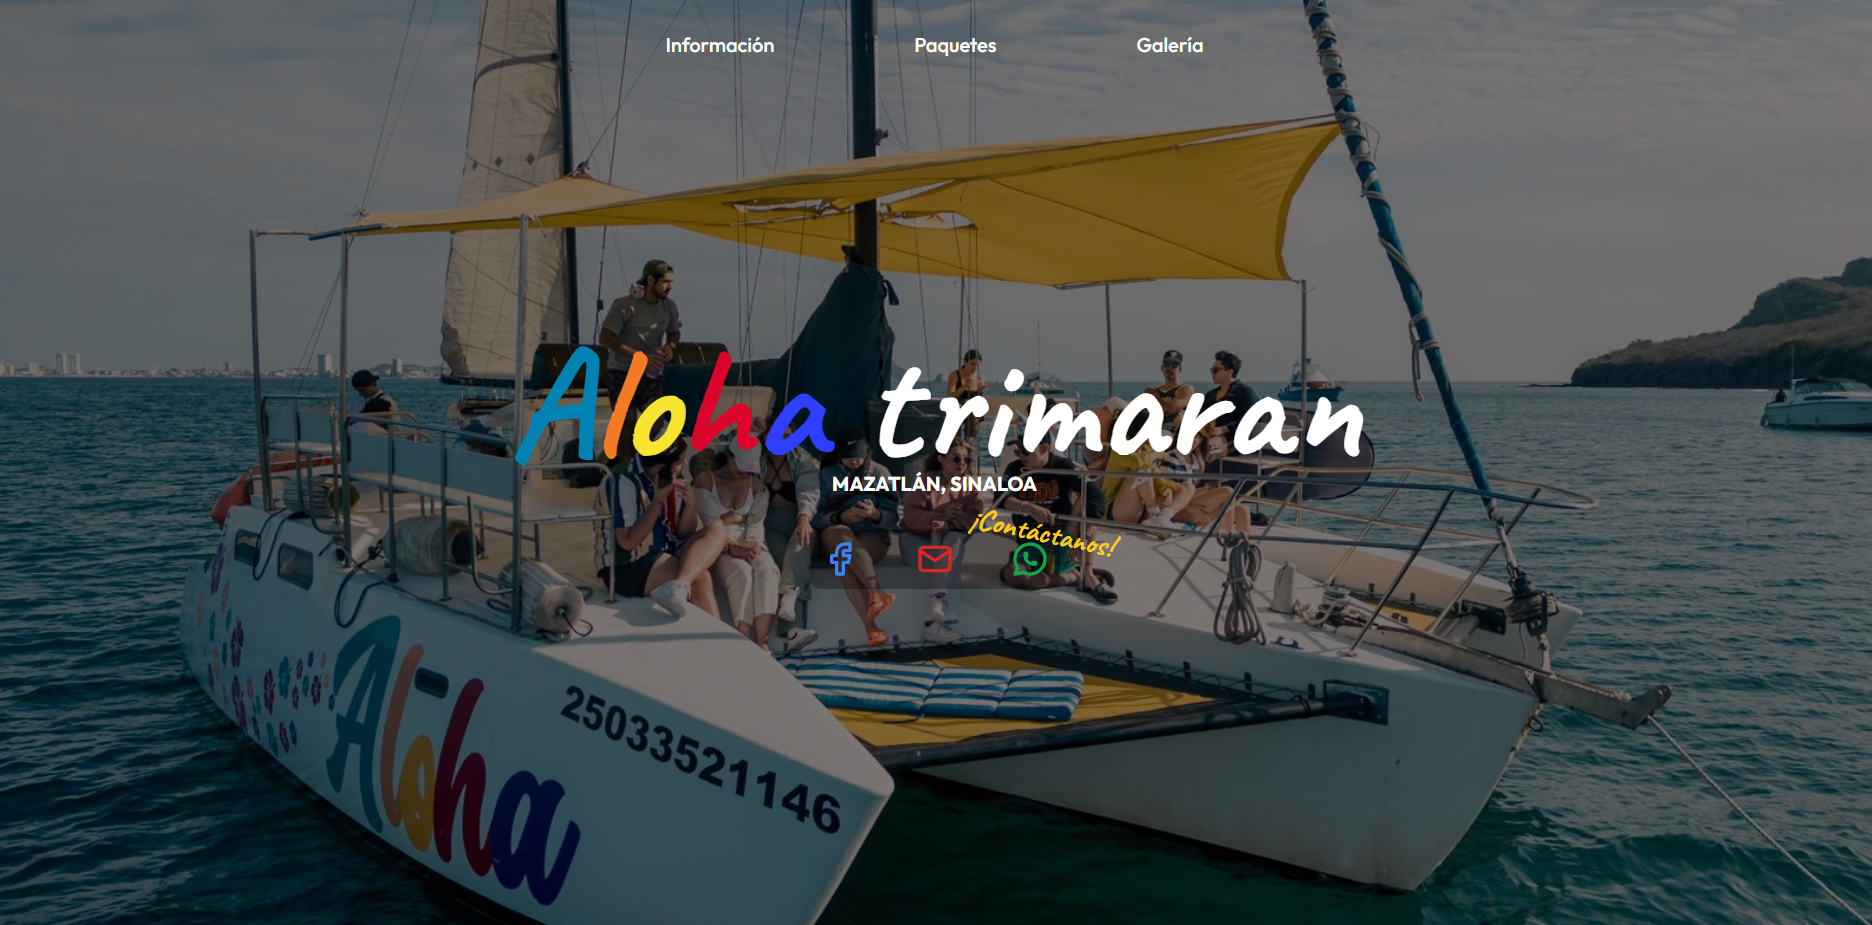
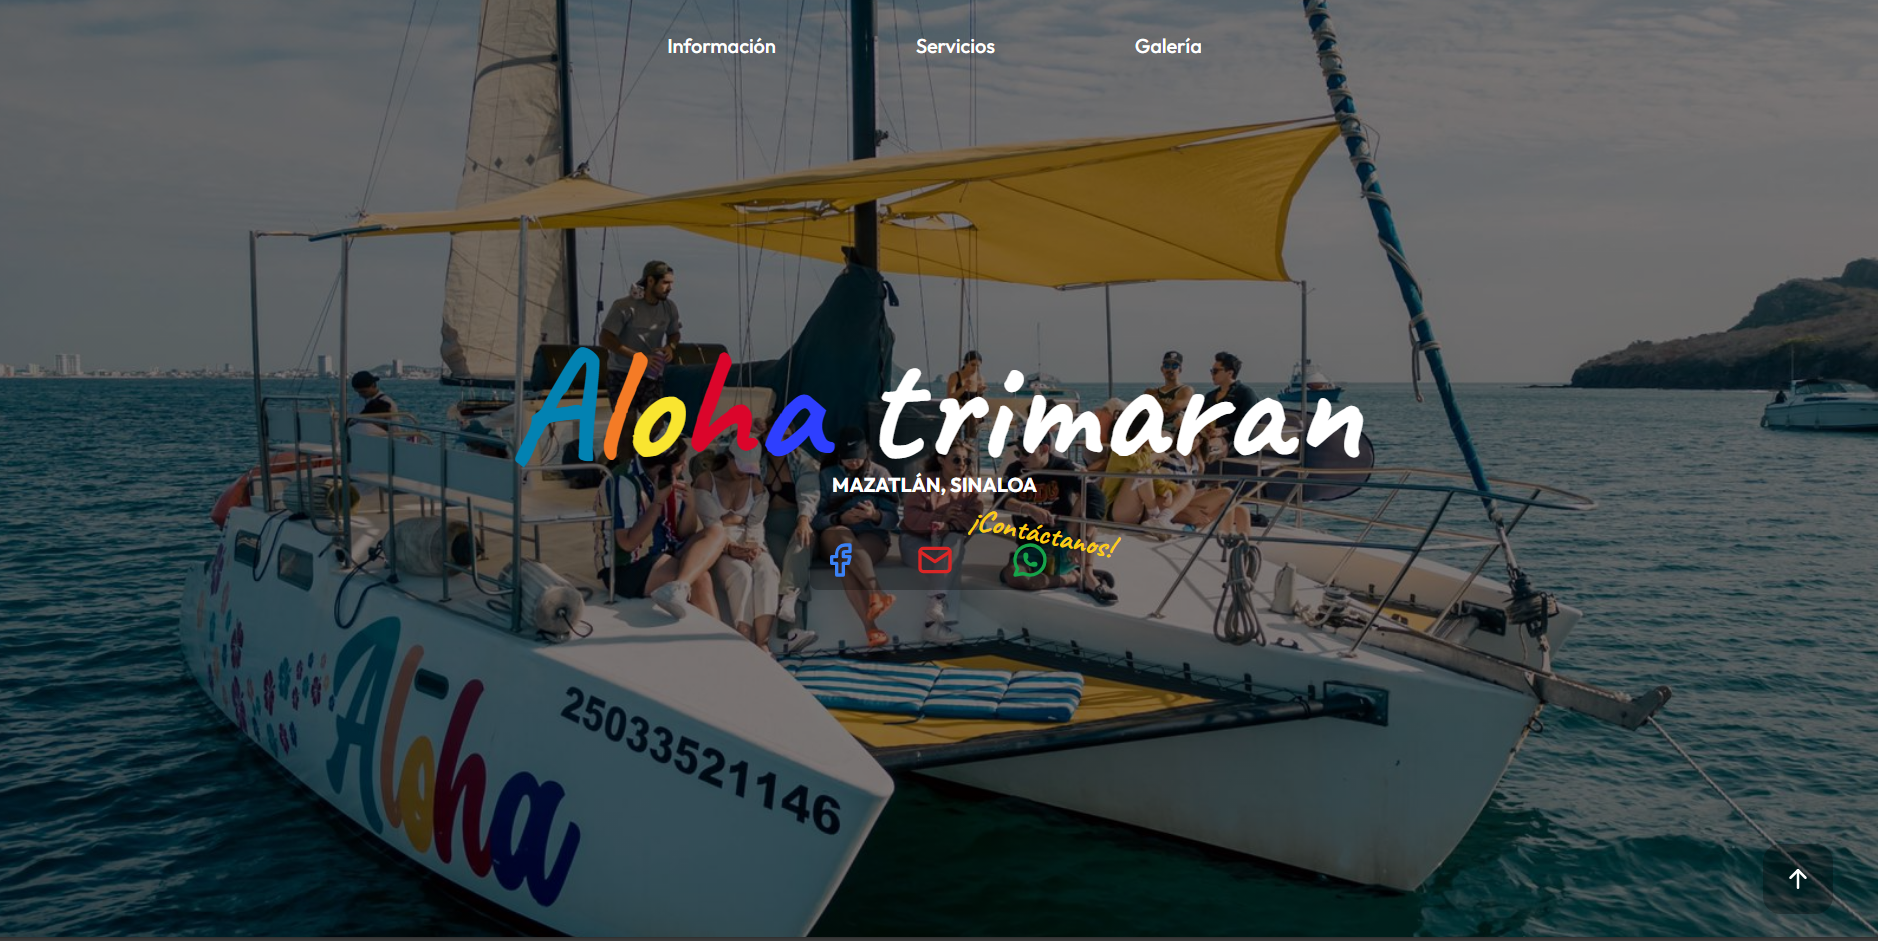
ajustes v1

diff --git a/README.md b/README.md
@@ -1,15 +1,3 @@
-# Información importante
-
-- Edades entre 20 a 55 años
-- Ubicaciones en Jalisco  , Guanajuato , durango , Nuevo  Leon , Sinaloa , chihuahua , Sonora , Baja California Norte
-- Paquetes de 5 horas
-- Capacidad máxima es para 25 personas
-- Abordo del yate: bancas, sombras, hieleras, música, baño, camarote, capitán y marinero, chalecos salvavidas, botiquín de primeros auxilios
-- Actividades: Kayaks, paddle, boards y tapete flotante
-- Dos horarios. Am: 9 am a 2 pm y Pm: 2 pm a 7 pm.
-- Lugar de salida: Marina Mazatlán muelle 10
-- Correo contacto: tucana5@hotmail.com 
-
 # Link y contactos
 (Instagram) https://www.instagram.com/aloha_trimaran/
 (Facebook) https://www.facebook.com/tucana5
@@ -18,6 +6,6 @@
 # Imagenes
 ![Sección Hero](/img/image.png)
 ![Sección Información](/img/image-1.png)
-![Sección Paquetes](/img/image-2.png)
+![Sección Servicios](/img/image-2.png)
 ![Sección Galería](/img/image-3.png)
 ![Sección Footer](/img/image-4.png)
